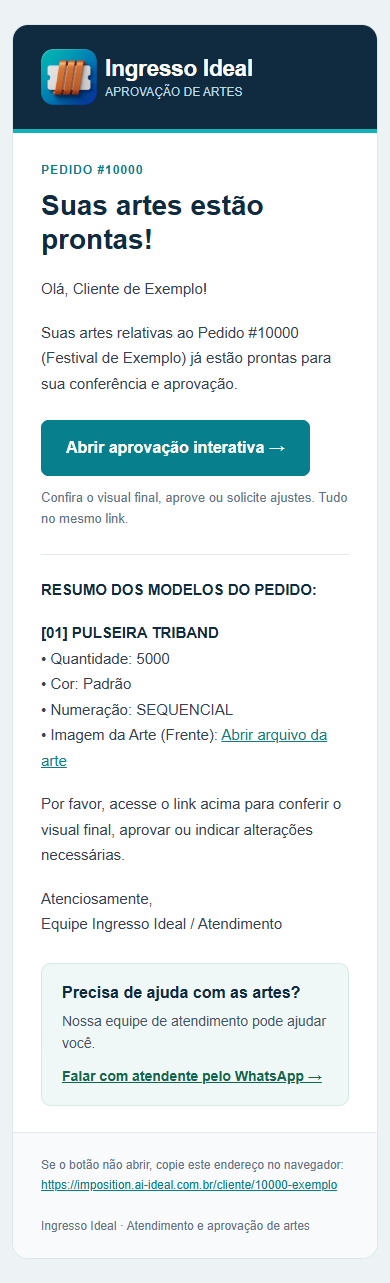
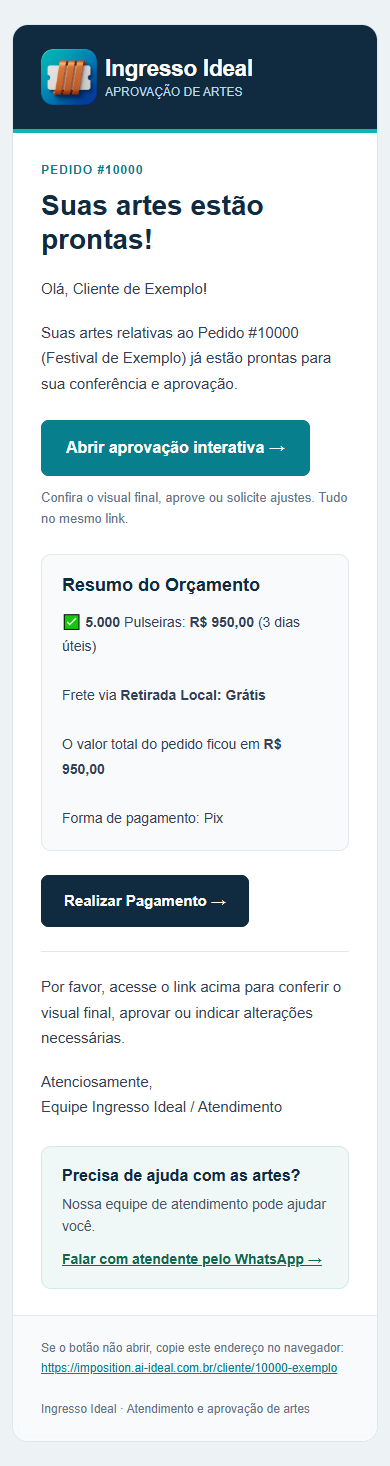
feat(email): incluir orcamento e acesso ao pagamento

diff --git a/supabase/functions/_compartilhado/email_artes_layout.ts b/supabase/functions/_compartilhado/email_artes_layout.ts
@@ -15,23 +15,31 @@ function linhaHtml(linha: string): string {
   }).join("");
 }
 
-export function layoutEmailArte(texto: string, portal: string, link?: string, numero?: string) {
+export function layoutEmailArte(texto: string, portal: string, link?: string, numero?: string, orcamento?: string) {
+  // Também remove o bloco padrão de mensagens preparadas por abas antigas.
+  const fonte = texto.split(/\r?\n/);
+  const inicioResumo = fonte.findIndex(l => /^\s*RESUMO DOS MODELOS DO PEDIDO:\s*$/i.test(l));
+  const inicioAprovacao = fonte.findIndex((l, i) => i > inicioResumo && /^\s*LINK DE APROVAÇÃO INTERATIVA:\s*$/i.test(l));
+  if (inicioResumo >= 0 && inicioAprovacao > inicioResumo) fonte.splice(inicioResumo, inicioAprovacao - inicioResumo);
+  texto = fonte.join("\n");
   const whatsapp = "https://api.whatsapp.com/send?phone=" + WHATSAPP + "&text=" + encodeURIComponent(
     numero ? `Olá! Preciso de atendimento sobre a aprovação das artes do Pedido #${numero}.` : "Olá! Preciso de atendimento sobre a aprovação das artes.");
   const destino = link || portal;
+  const pagamento = link ? link + "#pagamento" : "";
   const titulo = link ? "Suas artes estão prontas!" : "Seu e-mail de teste chegou.";
   const acao = link ? "Abrir aprovação interativa" : "Abrir painel";
-  const linhas = texto.split(/\r?\n/).filter(linha => !/^\s*-{3,}\s*$/.test(linha) &&
-    !/^\s*LINK DE APROVAÇÃO INTERATIVA:\s*$/i.test(linha) && (!link || linha.trim() !== link));
-  const resumo = linhas.findIndex(linha => /^RESUMO DOS MODELOS DO PEDIDO:/i.test(linha.trim()));
+  const linhas = fonte.filter(linha => !/^\s*-{3,}\s*$/.test(linha) && (!link || linha.trim() !== link));
+  const aprovacao = linhas.findIndex(linha => /^\s*LINK DE APROVAÇÃO INTERATIVA:\s*$/i.test(linha));
   const render = (ls: string[]) => ls.join("\n").trim().split(/\n\s*\n/).filter(Boolean).map(bloco => {
     const linhas = bloco.split("\n");
     return `<p style="margin:0 0 18px;font-size:15px;line-height:1.7;color:#334155;overflow-wrap:anywhere;">${linhas.map(l =>
       /^\s*\[\d+\]/.test(l) || /^RESUMO DOS MODELOS DO PEDIDO:/i.test(l.trim())
         ? `<strong style="color:#102b3f;">${linhaHtml(l)}</strong>` : linhaHtml(l)).join("<br>")}</p>`;
   }).join("");
-  const intro = render(resumo >= 0 ? linhas.slice(0, resumo) : linhas);
-  const detalhes = resumo >= 0 ? render(linhas.slice(resumo)) : "";
+  const intro = render(aprovacao >= 0 ? linhas.slice(0, aprovacao) : linhas);
+  const detalhes = aprovacao >= 0 ? render(linhas.slice(aprovacao + 1)) : "";
+  // Negrito do WhatsApp somente depois de escapar; valores e condições intactos.
+  const resumoHtml = orcamento ? escapar(orcamento).replace(/\*(\S(?:[^*]*\S)?)\*/g, '<strong>$1</strong>').replace(/\r?\n/g, '<br>') : "";
   const html = `<!doctype html>
 <html lang="pt-BR"><head><meta charset="utf-8"><meta name="viewport" content="width=device-width,initial-scale=1"><title>${escapar(titulo)}</title></head>
 <body style="margin:0;padding:0;background:#edf3f5;font-family:Arial,Helvetica,sans-serif;">
@@ -50,11 +58,13 @@ ${intro}
 <table role="presentation" cellpadding="0" cellspacing="0"><tr><td align="center" bgcolor="#087f8c" style="border-radius:8px;mso-padding-alt:16px 24px;"><a href="${escapar(destino)}" style="display:inline-block;padding:16px 24px;font-size:16px;font-weight:bold;line-height:22px;color:#fff;text-decoration:none;border:1px solid #087f8c;border-radius:8px;">${escapar(acao)} &rarr;</a></td></tr></table>
 ${link ? '<p style="margin:12px 0 0;font-size:13px;line-height:1.6;color:#64748b;">Confira o visual final, aprove ou solicite ajustes. Tudo no mesmo link.</p>' : ""}
 </td></tr></table>
+${resumoHtml ? `<table role="presentation" width="100%" cellpadding="0" cellspacing="0" style="margin-bottom:24px;"><tr><td style="padding:20px;background:#f8fafc;border:1px solid #e2e8f0;border-radius:10px;"><h2 style="margin:0 0 14px;color:#102b3f;font-size:18px;">Resumo do Orçamento</h2><div style="color:#334155;font-size:14px;line-height:1.75;overflow-wrap:anywhere;">${resumoHtml}</div></td></tr></table>` : ""}
+${pagamento ? `<table role="presentation" cellpadding="0" cellspacing="0" style="margin-bottom:24px;"><tr><td align="center" bgcolor="#102b3f" style="border-radius:8px;mso-padding-alt:14px 22px;"><a href="${escapar(pagamento)}" style="display:inline-block;padding:14px 22px;border:1px solid #102b3f;border-radius:8px;font-size:15px;font-weight:bold;line-height:22px;color:#fff;text-decoration:none;">Realizar Pagamento &rarr;</a></td></tr></table>` : ""}
 ${detalhes ? `<div style="border-top:1px solid #e2e8f0;padding-top:22px;">${detalhes}</div>` : ""}
 </td></tr>
 <tr><td style="padding:0 28px 26px;"><table role="presentation" width="100%" cellpadding="0" cellspacing="0"><tr><td style="padding:20px;background:#f0f8f7;border:1px solid #d5eae5;border-radius:10px;"><strong style="font-size:16px;color:#102b3f;">Precisa de ajuda com as artes?</strong><p style="margin:8px 0 12px;font-size:14px;line-height:1.6;color:#475569;">Nossa equipe de atendimento pode ajudar você.</p><a href="${escapar(whatsapp)}" style="font-size:14px;font-weight:bold;color:#12664b;text-decoration:underline;">Falar com atendente pelo WhatsApp &rarr;</a></td></tr></table></td></tr>
 <tr><td style="padding:22px 28px;background:#f8fafc;border-top:1px solid #e2e8f0;font-size:12px;line-height:1.7;color:#64748b;">Se o botão não abrir, copie este endereço no navegador:<br><a href="${escapar(destino)}" style="color:#087f8c;word-break:break-all;">${escapar(destino)}</a><br><br>Ingresso Ideal &middot; Atendimento e aprovação de artes</td></tr>
 </table><!--[if mso]></td></tr></table><![endif]-->
 </td></tr></table></body></html>`;
-  return { html, text: texto + "\n\nFalar com atendente pelo WhatsApp:\n" + whatsapp };
+  return { html, text: texto + (orcamento ? "\n\nRESUMO DO ORÇAMENTO:\n" + orcamento : "") + (pagamento ? "\n\nRealizar Pagamento:\n" + pagamento : "") + "\n\nFalar com atendente pelo WhatsApp:\n" + whatsapp };
 }

diff --git a/supabase/functions/_compartilhado/email_artes_test.ts b/supabase/functions/_compartilhado/email_artes_test.ts
@@ -11,12 +11,13 @@ const quem = { id: "operador-sintetico", email: "operador@example.com", permisso
 const link = { os_id: "vibe_11", numero_pedido: "11", token: "abc123" };
 const url = "https://imposition.ai-ideal.com.br/cliente/11-abc123";
 const entrada = { os_id: link.os_id, to: "cliente@example.com", subject: "Aprovação de arte", link_url: url, body_text: "Confira: " + url };
-function contexto(linhas: unknown = [link]) {
+function contexto(linhas: unknown = [link], propostas: unknown = [{id_int:11,texto_whatsapp:"Total do pedido: R$ 148,05\nPagamento: Pix"}]) {
   const enviadas: MensagemArte[] = [], consultas: string[] = [];
   return { enviadas, consultas, deps: {
     ambiente: (nome: string) => env[nome],
     consultar: async (metodo: string, caminho: string) => {
-      assert.equal(metodo, "GET"); consultas.push(caminho); return linhas;
+      assert.equal(metodo, "GET"); consultas.push(caminho);
+      return caminho.startsWith("propostas?") ? propostas : linhas;
     },
     enviar: async (_config: unknown, mensagem: MensagemArte) => { enviadas.push(mensagem); },
   } };
@@ -34,6 +35,9 @@ Deno.test("email: todos os perfis com leitura enviam sem permissão administrati
     assert.ok(c.enviadas[0].html?.includes(`href="${url}"`));
     assert.match(c.enviadas[0].text, /phone=555195343478/);
     assert.equal(c.consultas[0], "pedidos_links_cliente?os_id=eq.vibe_11&ativo=eq.true&select=os_id,numero_pedido,token&limit=2");
+    assert.equal(c.consultas[1], "propostas?id_int=eq.11&select=id_int,texto_whatsapp&limit=2");
+    assert.match(c.enviadas[0].html!, /Resumo do Orçamento[\s\S]*R\$ 148,05/);
+    assert.match(c.enviadas[0].text, /Pagamento: Pix/);
   }
 });
 Deno.test("email: anônimo, cliente sem grade e usuário sem acesso não consultam nem enviam", async () => {
@@ -61,7 +65,7 @@ Deno.test("email: configuração ausente, porta bloqueada ou TLS inválido não 
   }
 });
 Deno.test("email: não aceita sobrescrever SMTP, remetente, HTML, autor ou destinatário de teste", async () => {
-  for (const campo of ["smtp_config", "from", "body_html", "autor", "empresa_id"]) {
+  for (const campo of ["smtp_config", "from", "body_html", "autor", "empresa_id", "orcamento"]) {
     const c = contexto();
     await recusa(422, () => operarEmailArtes("enviar", { ...entrada, [campo]: "forjado" }, quem, c.deps));
     assert.equal(c.consultas.length, 0); assert.equal(c.enviadas.length, 0);
@@ -70,6 +74,24 @@ Deno.test("email: não aceita sobrescrever SMTP, remetente, HTML, autor ou desti
   await recusa(422, () => operarEmailArtes("testar", { to: "outro@example.com" }, quem, c.deps));
   await operarEmailArtes("testar", {}, quem, c.deps);
   assert.equal(c.enviadas[0].to, quem.email); assert.equal(c.consultas.length, 0);
+});
+Deno.test("email: orcamento ausente nao inventa valores; divergencia e falha impedem envio", async () => {
+  for (const proposta of [[], [{id_int:11,texto_whatsapp:null}], [{id_int:11,texto_whatsapp:""}]]) {
+    const c = contexto([link], proposta);
+    await operarEmailArtes("enviar", entrada, quem, c.deps);
+    assert.match(c.enviadas[0].text, /Resumo não disponível/);
+    assert.doesNotMatch(c.enviadas[0].text, /R\$ 0/);
+  }
+  for (const proposta of [[{id_int:22,texto_whatsapp:"Outro cliente"}], [{id_int:11},{id_int:11}], null]) {
+    const c = contexto([link], proposta);
+    await recusa(409, () => operarEmailArtes("enviar", entrada, quem, c.deps));
+    assert.equal(c.enviadas.length, 0);
+  }
+  const c = contexto();
+  await recusa(503, () => operarEmailArtes("enviar", entrada, quem, {...c.deps,
+    consultar: async (_metodo, caminho) => { if (caminho.startsWith('propostas?')) throw new Error('privado'); return [link]; },
+  }));
+  assert.equal(c.enviadas.length, 0);
 });
 Deno.test("email: valida destinatário, cabeçalho, tamanho, corpo e id antes de consultar", async () => {
   for (const alteracao of [

diff --git a/frontend/script.js b/frontend/script.js
@@ -40564,7 +40564,7 @@ function ensureModalEmailElement() {
                             <textarea id="modal-email-subject" name="arte_assunto" autocomplete="off" rows="1" maxlength="200" oninput="this.value = this.value.replace(/[\\r\\n]+/g, ' ')"></textarea></div>
                         <div><label for="modal-email-body">Mensagem para o cliente</label>
                             <textarea id="modal-email-body" rows="12" aria-describedby="modal-email-body-hint"></textarea>
-                            <p class="email-hint" id="modal-email-body-hint">Edite a mensagem se necessário. O e-mail será enviado com cabeçalho, botão de aprovação e contato pelo WhatsApp.</p></div>
+                            <p class="email-hint" id="modal-email-body-hint">Edite a mensagem se necessário. O e-mail inclui cabeçalho, resumo do orçamento cadastrado, botões de aprovação e pagamento e contato pelo WhatsApp.</p></div>
                     </div>
                 </div>
                 <div class="email-footer">
@@ -40727,17 +40727,6 @@ async function abrirModalEnviarEmailCliente(osId, numero, linkUrl) {
 
         if (!clienteNome) clienteNome = 'Cliente';
 
-        // 2. Carregar itens da OS se não estiverem no state
-        if (!state.osItens[osId] || state.osItens[osId].length === 0) {
-            try {
-                await loadOSItens(osId);
-            } catch (eItens) {
-                console.warn('[Email Modal] Erro ao carregar itens:', eItens);
-            }
-        }
-
-        const itens = state.osItens[osId] || [];
-
         // 3. Montar preenchimento da UI do Modal
         document.getElementById('modal-email-os-numero').textContent = numero || (os ? os.numero : '');
         document.getElementById('modal-email-link-display').textContent = linkUrl || '';
@@ -40752,30 +40741,6 @@ async function abrirModalEnviarEmailCliente(osId, numero, linkUrl) {
         bodyLines.push(``);
         bodyLines.push(`Suas artes relativas ao Pedido #${numero}${nomeEvento ? ` (${nomeEvento})` : ''} já estão prontas para sua conferência e aprovação.`);
         bodyLines.push(``);
-        bodyLines.push(`--------------------------------------------------`);
-        bodyLines.push(`RESUMO DOS MODELOS DO PEDIDO:`);
-        bodyLines.push(`--------------------------------------------------`);
-
-        itens.forEach((item, i) => {
-            const idxStr = (i + 1).toString().padStart(2, '0');
-            const modNome = item.produto || item.nome_modelo || `Modelo ${i + 1}`;
-            const qtdStr = item.qtd || item.quantidade || '0';
-            const corStr = item.cor || item.padrao || 'Padrão';
-            const numStr = item.gabarito_operacional || item.numeracao || item.tipo_numeracao || 'Padrão';
-            const imgUrl = item.arte_url || item.amostra_arte_base64 || '';
-            const versoUrl = item.verso_arte_url || item.verso_amostra_arte_base64 || '';
-
-            bodyLines.push(`[${idxStr}] ${modNome}`);
-            bodyLines.push(`     • Quantidade: ${qtdStr}`);
-            bodyLines.push(`     • Cor: ${corStr}`);
-            bodyLines.push(`     • Numeração: ${numStr}`);
-            if (imgUrl) bodyLines.push(`     • Imagem da Arte (Frente): ${imgUrl.startsWith('data:') ? '[Arte Gerada no Sistema]' : imgUrl}`);
-            if (versoUrl) bodyLines.push(`     • Imagem da Arte (Verso): ${versoUrl.startsWith('data:') ? '[Arte Gerada no Sistema]' : versoUrl}`);
-            bodyLines.push(``);
-
-        });
-
-        bodyLines.push(`--------------------------------------------------`);
         bodyLines.push(`LINK DE APROVAÇÃO INTERATIVA:`);
         bodyLines.push(linkUrl);
         bodyLines.push(`--------------------------------------------------`);

diff --git a/supabase/functions/_compartilhado/email_artes_layout_test.ts b/supabase/functions/_compartilhado/email_artes_layout_test.ts
@@ -4,16 +4,23 @@ import { mensagemMime } from "./smtp_artes.ts";
 
 const portal = "https://portal.example";
 const link = portal + "/cliente/11-abc123";
-Deno.test("layout: botao antes dos modelos, logo, WhatsApp e texto alternativo", () => {
+Deno.test("layout: remove resumo legado de HTML e texto, preservando aprovacao e contato", () => {
   const texto = `Olá, Cliente!\n\nSuas artes estão prontas.\n\nRESUMO DOS MODELOS DO PEDIDO:\n\n[01] Pulseira\nQuantidade: 5000\nArte: https://storage.example/arte.pdf\n\nLINK DE APROVAÇÃO INTERATIVA:\n${link}`;
   const r = layoutEmailArte(texto, portal, link, "11");
-  assert.ok(r.html.indexOf("Abrir aprovação interativa") < r.html.indexOf("[01] Pulseira"));
+  assert.match(r.html, /Abrir aprovação interativa/);
   assert.ok(r.html.includes(`src="${portal}/logo.png"`));
   assert.ok(r.html.includes(`href="${link}"`));
   assert.match(r.html, /phone=555195343478/);
+  assert.match(r.text, /Suas artes estão prontas/);
+  assert.ok(r.text.includes(link));
+  assert.doesNotMatch(r.html + r.text, /RESUMO DOS MODELOS|Pulseira|Quantidade|storage.example/);
+});
+Deno.test("layout: mensagem curta mantem botao antes da despedida e texto editado", () => {
+  const texto = `Olá, Cliente!\n\nTexto editado pelo designer.\n\nLINK DE APROVAÇÃO INTERATIVA:\n${link}\n\nAtenciosamente,\nEquipe Ingresso Ideal`;
+  const r = layoutEmailArte(texto, portal, link, "11");
   assert.ok(r.text.startsWith(texto));
-  assert.match(r.html, /Abrir arquivo da arte/);
-  assert.doesNotMatch(r.html, />https:\/\/storage.example/);
+  assert.ok(r.html.indexOf("Texto editado") < r.html.indexOf("Abrir aprovação interativa"));
+  assert.ok(r.html.indexOf("Abrir aprovação interativa") < r.html.indexOf("Atenciosamente"));
 });
 Deno.test("layout: HTML editado e atributos de links sao escapados", () => {
   const r = layoutEmailArte('<script>alert(1)</script>\n<img src=x onerror="alert(2)">\nhttps://storage.example/a?x=1&y=2\njavascript:alert(3)', portal, link, "11");
@@ -24,7 +31,19 @@ Deno.test("layout: HTML editado e atributos de links sao escapados", () => {
 Deno.test("layout: teste de remetente nao inventa link de aprovacao", () => {
   const r = layoutEmailArte("Teste sintético", portal);
   assert.match(r.html, /Abrir painel/);
-  assert.doesNotMatch(r.html, /Abrir aprovação interativa|\/cliente\//);
+  assert.doesNotMatch(r.html, /Abrir aprovação interativa|Realizar Pagamento|\/cliente\//);
+});
+Deno.test("layout: orcamento preserva valores do ERP e pagamento abre aba correta", () => {
+  const orcamento = '✅ *100* Produto: *R$ 148,05*\nFrete: Grátis\nDesconto já aplicado\nPagamento: Pix\n<img src=x onerror=alert(1)>';
+  const r = layoutEmailArte(`Olá!\n\nLINK DE APROVAÇÃO INTERATIVA:\n${link}`, portal, link, "11", orcamento);
+  assert.ok(r.text.includes(orcamento));
+  assert.match(r.html, /<strong>R\$ 148,05<\/strong>/);
+  assert.match(r.html, /Frete: Grátis/);
+  assert.doesNotMatch(r.html, /<img src=x/);
+  assert.ok(r.html.includes(`href="${link}#pagamento"`));
+  assert.ok(r.text.includes(link + '#pagamento'));
+  assert.ok(r.html.indexOf('Abrir aprovação interativa') < r.html.indexOf('Resumo do Orçamento'));
+  assert.ok(r.html.indexOf('Resumo do Orçamento') < r.html.indexOf('Realizar Pagamento'));
 });
 Deno.test("MIME: texto e HTML UTF-8 decodificam sem corromper assunto nem links", () => {
   const corpo = layoutEmailArte("Olá! Aprovação de arte.", portal, link, "11");

diff --git a/tests/email_campos_browser_harness.js b/tests/email_campos_browser_harness.js
@@ -50,15 +50,18 @@ function extrair(nome) {
             const supabaseClient = {auth:{getSession:async()=>({data:{session:{access_token:'sintetico'}}})}};
             function abrirModalConfigEmail() {}
             function toast() {}
+            const state = {ordens:[{id:'vibe_11',numero:11,cliente:'Cliente de Exemplo'}],todasArtes:[],osItens:{}};
             window.fetch = () => new Promise(resolve => {window.resolverEnvio = resolve;});
             ${transporte}
+            async ${extrair('abrirModalEnviarEmailCliente')}
         `});
-        await page.evaluate(() => {
-            window._activeEmailModalData = {osId:'vibe_11',linkUrl:'https://example.com/cliente/11-abc123'};
-            document.getElementById('modal-email-os-numero').textContent = '11';
-            document.getElementById('modal-email-link-display').textContent = window._activeEmailModalData.linkUrl;
-            document.getElementById('modal-email-body').value = 'Olá, Cliente de Exemplo!\n\nSuas artes estão prontas para conferência e aprovação.\n\nRESUMO DOS MODELOS DO PEDIDO:\n\n[01] Pulseira Triband\nQuantidade: 5000\nCor: Padrão\n\nLINK DE APROVAÇÃO INTERATIVA:\nhttps://example.com/cliente/11-abc123\n\nAtenciosamente,\nEquipe Ingresso Ideal / Atendimento';
+        await page.evaluate(async () => {
+            await abrirModalEnviarEmailCliente('vibe_11',11,'https://example.com/cliente/11-abc123');
+            document.getElementById('modal-email-to').value = 'segundo@example.com';
         });
+        const corpo = await page.$eval('#modal-email-body', e => e.value);
+        assert.doesNotMatch(corpo, /RESUMO DOS MODELOS|Quantidade:|Imagem da Arte|Numeração:/);
+        assert.match(corpo, /https:\/\/example.com\/cliente\/11-abc123/);
         const preview = process.env.EMAIL_MODAL_PREVIEW_DIR;
         if (preview) fs.mkdirSync(preview, {recursive:true});
         for (const [nome,width,height] of [['desktop',1280,1000],['mobile',390,900]]) {

diff --git a/supabase/functions/_compartilhado/email_artes.ts b/supabase/functions/_compartilhado/email_artes.ts
@@ -109,9 +109,24 @@ export async function operarEmailArtes(
         typeof corpo.link_url !== "string" || !body.includes(corpo.link_url)) {
       throw new Recusa(409, "O link da mensagem não corresponde ao pedido. Reabra o envio pela Lista de Artes.");
     }
+    // Mesma fonte do orçamento no portal. Não recalcular preços a partir das artes.
+    let propostas;
+    try {
+      propostas = await (deps.consultar || banco)("GET",
+        `propostas?id_int=eq.${linhas[0].numero_pedido}&select=id_int,texto_whatsapp&limit=2`);
+    } catch { throw new Recusa(503, "Não foi possível consultar o resumo do orçamento. Tente mais tarde."); }
+    if (!Array.isArray(propostas) || propostas.length > 1 ||
+        (propostas.length === 1 && String(propostas[0].id_int) !== String(linhas[0].numero_pedido))) {
+      throw new Recusa(409, "Não foi possível identificar o orçamento deste pedido.");
+    }
+    const resumo = propostas[0]?.texto_whatsapp;
+    if (resumo != null && (typeof resumo !== "string" || resumo.length > 50000)) {
+      throw new Recusa(503, "O resumo do orçamento precisa ser conferido antes do envio.");
+    }
+    const orcamento = resumo?.trim() || "Resumo não disponível neste e-mail. Consulte a aba Orçamento no link de aprovação ou fale com o atendimento.";
     // Links montados na estação também saem com o domínio público configurado.
     mensagem = { to, subject, text: body.replaceAll(corpo.link_url, estado.portal + caminho) };
-    Object.assign(mensagem, layoutEmailArte(mensagem.text, estado.portal, estado.portal + caminho, String(linhas[0].numero_pedido)));
+    Object.assign(mensagem, layoutEmailArte(mensagem.text, estado.portal, estado.portal + caminho, String(linhas[0].numero_pedido), orcamento));
   }
   const referencia = crypto.randomUUID();
   try {

diff --git a/tests/email_layout_preview.ts b/tests/email_layout_preview.ts
@@ -6,17 +6,6 @@ const corpo = `Olá, Cliente de Exemplo!
 
 Suas artes relativas ao Pedido #10000 (Festival de Exemplo) já estão prontas para sua conferência e aprovação.
 
---------------------------------------------------
-RESUMO DOS MODELOS DO PEDIDO:
---------------------------------------------------
-
-[01] PULSEIRA TRIBAND
-     • Quantidade: 5000
-     • Cor: Padrão
-     • Numeração: SEQUENCIAL
-     • Imagem da Arte (Frente): https://example.com/arte-frente.pdf
-
---------------------------------------------------
 LINK DE APROVAÇÃO INTERATIVA:
 ${link}
 --------------------------------------------------
@@ -26,4 +15,5 @@ Por favor, acesse o link acima para conferir o visual final, aprovar ou indicar 
 Atenciosamente,
 Equipe Ingresso Ideal / Atendimento`;
 await Deno.mkdir("design", {recursive:true});
-await Deno.writeTextFile("design/email-aprovacao-preview.html", layoutEmailArte(corpo, portal, link, "10000").html);
+const orcamento = "✅ *5.000* Pulseiras: *R$ 950,00* (3 dias úteis)\n\nFrete via *Retirada Local: Grátis*\n\nO valor total do pedido ficou em *R$ 950,00*\n\nForma de pagamento: Pix";
+await Deno.writeTextFile("design/email-aprovacao-preview.html", layoutEmailArte(corpo, portal, link, "10000", orcamento).html);

diff --git a/supabase/functions/painel/email_test.ts b/supabase/functions/painel/email_test.ts
@@ -23,6 +23,7 @@ Deno.test("painel/email: sessão, grade, CORS Cloudflare, métodos e envio sem a
       let dados;
       if (url.includes("imposition_user_permissions?")) dados = permissoes ? [permissoes] : [];
       else if (url.includes("pedidos_links_cliente?")) dados = [{ os_id: "vibe_11", numero_pedido: "11", token: "abc123" }];
+      else if (url.includes("propostas?id_int=eq.11&select=id_int,texto_whatsapp&limit=2")) dados = [{id_int:11,texto_whatsapp:"Total: R$ 148,05"}];
       else throw new Error("consulta fora do contrato");
       return Promise.resolve(Response.json(dados));
     }) as typeof fetch;

diff --git a/frontend/index.html b/frontend/index.html
@@ -4314,7 +4314,7 @@
     <script src="foto-lib.js?v=833"></script>
     <script src="gerenciador-fotos.js?v=833"></script>
     <script src="editor-foto.js?v=833"></script>
-    <script src="script.js?v=840"></script>
+    <script src="script.js?v=841"></script>
     <script src="ideal-control.js?v=833"></script>
     <script src="criador-arte.js?v=833"></script>
     <script src="/pedido.js?v=833"></script>

diff --git a/frontend/producao.html b/frontend/producao.html
@@ -2125,7 +2125,7 @@
     <script src="/foto-lib.js?v=833"></script>
     <script src="/gerenciador-fotos.js?v=833"></script>
     <script src="/editor-foto.js?v=833"></script>
-    <script src="/script.js?v=840"></script>
+    <script src="/script.js?v=841"></script>
     <script src="/criador-arte.js?v=833"></script>
     <script src="/pedido.js?v=833"></script>
 

diff --git a/docs/registro-2026-09-09-email-orcamento-pagamento.md b/docs/registro-2026-09-09-email-orcamento-pagamento.md
@@ -1,0 +1,44 @@
+# E-mail: orçamento e acesso ao pagamento — 09/09/2026
+
+Pedidos do usuário: remover o resumo técnico dos modelos e os links diretos das
+artes; incluir o Resumo do Orçamento; adicionar Realizar Pagamento direcionando
+ao link do cliente na aba Pagar.
+
+## Resultado
+
+- O modal prepara somente a mensagem de aprovação; não carrega itens da OS para
+  compor quantidade, cor, numeração ou URLs de artes no corpo.
+- O backend remove também o bloco padrão de resumo de modelos entre os títulos
+  antigos RESUMO DOS MODELOS DO PEDIDO e LINK DE APROVAÇÃO INTERATIVA. Isso cobre
+  mensagens ainda preparadas por abas antigas, preservando saudação e aprovação.
+- Orçamento consultado depois de validar sessão, grade e link ativo. Consulta
+  somente leitura em `propostas`, filtro `id_int` pelo número do link validado,
+  projeção `id_int,texto_whatsapp`, limite 2 para recusar ambiguidades.
+  Mesma fonte do portal (`frontend/cliente-orcamento.js` e
+  `sql/link_cliente_pedido.sql`); valores e condições não são recalculados.
+- No HTML: aprovação primeiro, Resumo do Orçamento, Realizar Pagamento e
+  atendimento WhatsApp. Texto alternativo inclui orçamento e URL de pagamento.
+- Realizar Pagamento usa o mesmo link validado mais `#pagamento`, reconhecido por
+  `montarPortal` em `cliente-shell.js` como a aba Pagar. Apenas navegação: não
+  cria cobrança, não registra pagamento e não muda regras financeiras.
+- Texto do orçamento escapado antes do negrito de WhatsApp; não aceita orçamento
+  ou HTML arbitrário como novo campo da API. Sem novas dependências ou secrets.
+
+Ausência de `texto_whatsapp` não vira valor zero nem soma de itens: o e-mail
+orienta consultar o orçamento no portal/atendimento. Falha na consulta, resposta
+ambígua ou orçamento de outro número impedem o envio. Não houve escrita em banco.
+
+## Validação
+
+- 30 testes Deno passaram (API, SMTP, MIME, remoção de resumo, valores e botão).
+- 2 testes pytest passaram, incluindo geração real da mensagem e campos no Chrome.
+- 146 verificações das abas do portal passaram. Sintaxe JS e tipos do painel aprovados.
+- Prévias desktop e celular sem overflow; href do botão conferido com `#pagamento`.
+  Dados fictícios em `tests/email_layout_preview.ts` e capturas
+  `design/email-aprovacao-desktop.png` / `design/email-aprovacao-mobile.png`.
+- Nenhum e-mail real enviado por estes testes. Após publicação, conferir um novo
+  recebimento e a navegação na aba Pagar. E-mails anteriores não são modificados.
+
+Entrega v841, base `b9fe6e18`, branch `fix/email-sem-resumo`, worktree
+`imposicao-email-sem-resumo`. Preservadas alterações de outras tarefas na raiz e
+nos demais worktrees. Publicação inclui frontend e Edge Function painel.
